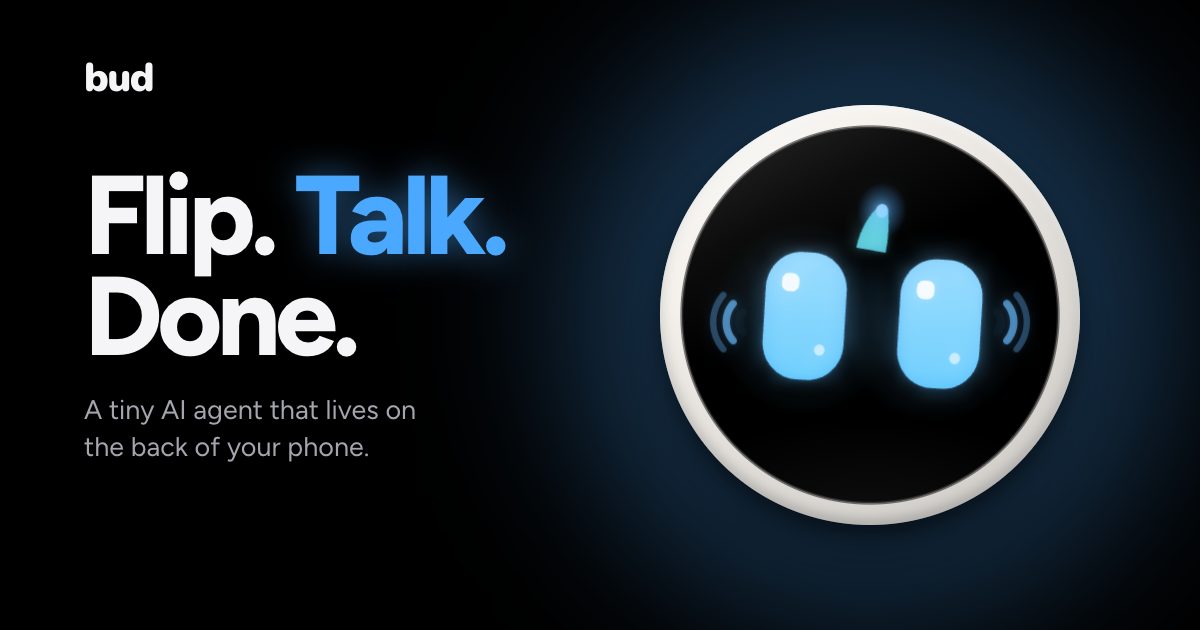
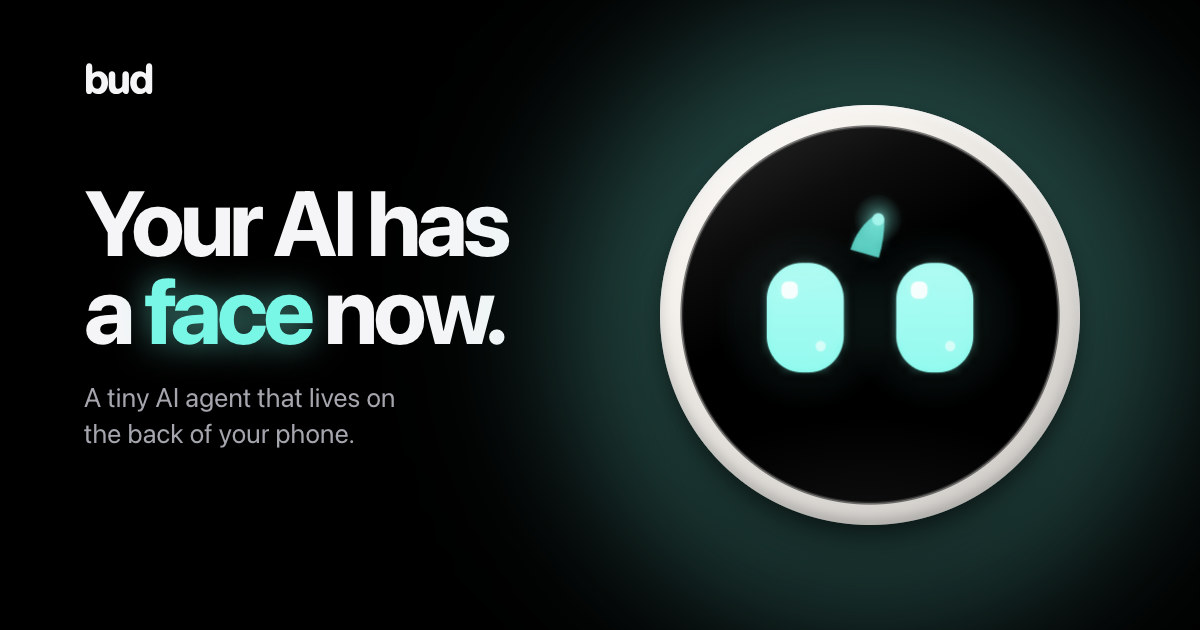
Publish meetbud.app (2026-11-02 07:41 UTC)

diff --git a/landing.js b/landing.js
@@ -4,19 +4,18 @@
  * the faces, colors and transitions here are the ones the device will show. This file
  * wires them to the page: the hero demo and cursor-following eyes, the scroll-driven 3D
  * reveal, the story, the try-on and share card, the film (or its animatic), reservations,
- * the email list and the A/B variant with dataLayer events.
+ * the email list, with dataLayer events.
  */
 (function () {
   'use strict';
   const K = window.Bud;
   const U = K.util;
   const CFG = Object.assign(
-    { name: 'Bud', depositAmount: '', price: '', shipWindow: '', variants: ['agent', 'companion'], analytics: true },
+    { name: 'Bud', depositAmount: '', price: '', shipWindow: '', analytics: true },
     window.BUD_CONFIG || {}
   );
   const $ = (s, r) => (r || document).querySelector(s);
   const $$ = (s, r) => Array.prototype.slice.call((r || document).querySelectorAll(s));
-  const root = document.documentElement;
   const IN_ARTIFACT = !!(window.claude && typeof window.claude.use === 'function');
   const mq = (q) => !!(window.matchMedia && window.matchMedia(q).matches);
   const REDUCED = mq('(prefers-reduced-motion: reduce)');
@@ -49,10 +48,12 @@
 
   /* ------------------------------------------------------------ analytics */
 
-  const variant = () => (CFG.variants.indexOf(root.dataset.variant) >= 0 ? root.dataset.variant : 'agent');
+  // The page's one version since the A/B test with "Flip. Talk. Done." ended (2026-11-02), still
+  // named in events, payment references and sign-ups so they line up with the test's.
+  const VARIANT = 'companion';
   function track(event, data) {
     if (!CFG.analytics) return;
-    (window.dataLayer = window.dataLayer || []).push(Object.assign({ event, variant: variant() }, data || {}));
+    (window.dataLayer = window.dataLayer || []).push(Object.assign({ event, variant: VARIANT }, data || {}));
   }
   document.addEventListener('click', (e) => {
     const t = e.target.closest && e.target.closest('[data-track]');
@@ -162,14 +163,7 @@
 
   function lightWords(st) {
     $$('.hw').forEach((w) => w.classList.remove('lit'));
-    if (variant() === 'agent') {
-      const word = { hello: 'flip', listening: 'talk', thinking: 'talk', done: 'done' }[st];
-      const el = word && $(`.hw[data-word="${word}"]`);
-      if (el) {
-        el.style.setProperty('--c', word === 'flip' ? TEAL : tintOf(st === 'thinking' ? 'listening' : st));
-        el.classList.add('lit');
-      }
-    } else if (st !== 'idle') {
+    if (st !== 'idle') {
       const el = $('.hw[data-word="face"]');
       el.style.setProperty('--c', tintOf(st));
       el.classList.add('lit');
@@ -661,7 +655,7 @@
     g.fillText(title, W / 2, 1040);
     g.fillStyle = '#A4A5AD';
     g.font = '500 40px Figtree, system-ui, sans-serif';
-    g.fillText(variant() === 'companion' ? 'My AI has a face now.' : 'My AI, on the back of my phone.', W / 2, 1108);
+    g.fillText('My AI has a face now.', W / 2, 1108);
     g.fillStyle = '#F5F5F7';
     g.font = '900 64px Nunito, "Arial Rounded MT Bold", system-ui, sans-serif';
     g.fillText('bud', W / 2, 1238);
@@ -1048,7 +1042,7 @@
         </div>
         <div class="film-end">
           <button class="btn btn-line btn-sm" type="button" data-film-again>Watch again</button>
-          <a class="btn btn-light btn-sm" href="#reserve" data-track="film_reserve"><span data-v="agent">Join the waitlist</span><span data-v="companion">Get yours first</span></a>
+          <a class="btn btn-light btn-sm" href="#reserve" data-track="film_reserve">Get yours first</a>
         </div>
         <div class="film-progress" aria-hidden="true"><i></i></div>`
       );
@@ -1183,7 +1177,7 @@
     try {
       const u = new URL(link);
       // ties the payment back to the landing variant (Stripe allows letters, digits, _ and -)
-      u.searchParams.set('client_reference_id', `lp_${variant()}_${refId}`);
+      u.searchParams.set('client_reference_id', `lp_${VARIANT}_${refId}`);
       const tags = utm();
       Object.keys(tags).forEach((k) => u.searchParams.set(k, tags[k]));
       return u.toString();
@@ -1240,7 +1234,7 @@
         const r = await fetch(CFG.waitlistEndpoint, {
           method: 'POST',
           headers: { 'Content-Type': 'application/json' },
-          body: JSON.stringify({ email, interest, variant: variant(), utm: utm(), ts: new Date().toISOString() }),
+          body: JSON.stringify({ email, interest, variant: VARIANT, utm: utm(), ts: new Date().toISOString() }),
         });
         if (!r.ok) throw new Error(String(r.status));
         say('You’re on the list. We will email you first.', 'ok');
@@ -1295,23 +1289,6 @@
     });
   }
 
-  function setupVariantSwitch() {
-    const sw = $('#vswitch');
-    if (!(IN_ARTIFACT || query().has('preview'))) return;
-    sw.hidden = false;
-    const paint = () => $$('[data-set-variant]', sw).forEach((b) => b.setAttribute('aria-pressed', String(b.dataset.setVariant === variant())));
-    $$('[data-set-variant]', sw).forEach((b) =>
-      b.addEventListener('click', () => {
-        root.dataset.variant = b.dataset.setVariant;
-        store.set('bud.variant', b.dataset.setVariant);
-        paint();
-        heroRun(false);
-        track('variant_preview');
-      })
-    );
-    paint();
-  }
-
   let ticking = false;
   function onScroll() {
     ticking = false;
@@ -1335,7 +1312,6 @@
 
   function boot() {
     applyConfig();
-    track('experiment_impression', { experiment: 'lp_positioning' });
     navBud = new K.Screen($('#navBud'), { fps: 30, bloom: false });
     navBud.set({ character: 'eyes', theme: 'classic', state: 'idle', oled: true, glow: false, shape: { type: 'circle' }, stage: {}, variety: !REDUCED });
     setupHero();
@@ -1347,7 +1323,6 @@
     setupDialog();
     setupFilm();
     setupReserve();
-    setupVariantSwitch();
     setupReveal();
     $$('.faq-list details').forEach((d) =>
       d.addEventListener('toggle', () => d.open && track('faq_open', { question: d.querySelector('summary').textContent }))

diff --git a/index.html b/index.html
@@ -1,5 +1,5 @@
 <!doctype html>
-<html lang="en" data-variant="agent">
+<html lang="en">
 <head>
 <meta charset="utf-8">
 <meta name="viewport" content="width=device-width, initial-scale=1, viewport-fit=cover">
@@ -7,7 +7,7 @@
 <meta name="description" content="Bud is a tiny AI agent that lives on the back of your phone. Flip your phone to wake it, say “Hey Bud”, and watch it get done. A working prototype today; join the waitlist.">
 <meta name="theme-color" content="#000000">
 <meta property="og:type" content="website">
-<meta property="og:title" content="Bud. Flip. Talk. Done.">
+<meta property="og:title" content="Bud. Your AI has a face now.">
 <meta property="og:description" content="A tiny AI agent that lives on the back of your phone.">
 <meta property="og:url" content="https://meetbud.app/">
 <meta property="og:image" content="https://meetbud.app/og.png">
@@ -19,18 +19,6 @@
 <link rel="preconnect" href="https://fonts.gstatic.com" crossorigin>
 <link rel="stylesheet" href="https://fonts.googleapis.com/css2?family=Figtree:wght@400..900&family=Nunito:wght@700..900&display=swap">
 <link rel="stylesheet" href="landing.css">
-<script>
-  // A/B variant before first paint: ?v= forces one, otherwise keep the visitor's or pick at random.
-  (function () {
-    var vs = ['agent', 'companion'];
-    var v = null;
-    try { v = new URLSearchParams(location.search).get('v'); } catch (e) {}
-    if (vs.indexOf(v) < 0) { try { v = JSON.parse(localStorage.getItem('bud.variant')); } catch (e) {} }
-    if (vs.indexOf(v) < 0) v = Math.random() < 0.5 ? 'agent' : 'companion';
-    try { localStorage.setItem('bud.variant', JSON.stringify(v)); } catch (e) {}
-    document.documentElement.setAttribute('data-variant', v);
-  })();
-</script>
 </head>
 <body>
 <a class="skip" href="#main">Skip to content</a>
@@ -53,10 +41,9 @@
   <!-- ============================================================ hero -->
   <section class="hero" id="top" aria-labelledby="hero-title">
     <div class="hero-head">
-      <p class="eyebrow"><span class="led"></span><span data-v="agent">An AI agent with a face</span><span data-v="companion">Meet Bud</span></p>
+      <p class="eyebrow"><span class="led"></span>Meet Bud</p>
       <h1 id="hero-title" class="hero-title">
-        <span data-v="agent" class="t-agent"><span class="hw" data-word="flip">Flip.</span> <span class="hw" data-word="talk">Talk.</span> <span class="hw" data-word="done">Done.</span></span>
-        <span data-v="companion" class="t-companion">Your AI has a <span class="hw" data-word="face">face</span> now.</span>
+        <span class="t-companion">Your AI has a <span class="hw" data-word="face">face</span> now.</span>
       </h1>
     </div>
     <div class="hero-stage">
@@ -68,10 +55,9 @@
       <p class="tap-hint" id="tapHint"><span class="ring" aria-hidden="true"></span>Tap Bud</p>
     </div>
     <div class="hero-body">
-      <p class="lede" data-v="agent">Bud is a tiny AI agent that lives on the back of your phone. Flip your phone to wake it, tap to talk, and watch it get done.</p>
-      <p class="lede" data-v="companion">Bud is a little AI friend that lives on the back of your phone. It listens, thinks, gets excited, and gets things done for you.</p>
+      <p class="lede">Bud is a little AI friend that lives on the back of your phone. It listens, thinks, gets excited, and gets things done for you.</p>
       <div class="cta-row">
-        <a class="btn btn-light btn-lg" href="#reserve" data-track="hero_reserve"><span data-v="agent">Join the waitlist</span><span data-v="companion">Get yours first</span></a>
+        <a class="btn btn-light btn-lg" href="#reserve" data-track="hero_reserve">Get yours first</a>
         <button class="btn btn-line btn-lg" type="button" data-film-open data-track="hero_film">
           <svg viewBox="0 0 24 24" aria-hidden="true"><path d="M8 5.5v13l10.5-6.5z" fill="currentColor"/></svg>Watch the film
         </button>
@@ -400,11 +386,6 @@
   </div>
 </dialog>
 
-<div class="vswitch" id="vswitch" hidden>
-  <span>A/B preview</span>
-  <button type="button" data-set-variant="agent">Agent</button>
-  <button type="button" data-set-variant="companion">Companion</button>
-</div>
 
 <script src="config.js"></script>
 <!-- shared character library from the concept explorer -->

diff --git a/landing.css b/landing.css
@@ -70,9 +70,6 @@ p { margin: 0; }
 .skip { position: fixed; left: 12px; top: -48px; z-index: 50; padding: 10px 14px; border-radius: 10px; background: var(--ink); color: var(--oled); font-weight: 600; transition: top 0.2s; }
 .skip:focus { top: calc(10px + env(safe-area-inset-top, 0px)); }
 
-/* A/B copy: both versions ship in the HTML, the variant decides which shows */
-[data-variant="agent"] [data-v="companion"],
-[data-variant="companion"] [data-v="agent"] { display: none !important; }
 
 /* ------------------------------------------------------------ type */
 .wordmark { font: 900 26px/1 var(--word); letter-spacing: -0.04em; }
@@ -630,17 +627,6 @@ section[id] { scroll-margin-top: var(--nav-h); }
 .card-actions { display: flex; flex-wrap: wrap; gap: 8px; justify-content: center; }
 .card-hint { text-align: center; font-size: 14px; color: var(--type-3); }
 
-/* ---------------------------------------------------- variant preview */
-.vswitch {
-  position: fixed; right: 16px; bottom: calc(16px + env(safe-area-inset-bottom, 0px)); z-index: 40; opacity: 0.72; transition: opacity 0.2s;
-  display: flex; align-items: center; gap: 4px; padding: 5px 5px 5px 14px; border-radius: 999px;
-  background: rgba(22, 23, 27, 0.86); border: 1px solid var(--line-dark); -webkit-backdrop-filter: blur(16px); backdrop-filter: blur(16px);
-  font: 600 11px/1 var(--label); letter-spacing: 0.12em; text-transform: uppercase; color: var(--ink-3);
-}
-.vswitch span { margin-right: 8px; }
-.vswitch button { height: 30px; padding: 0 12px; border: 0; border-radius: 999px; background: transparent; color: var(--ink-2); cursor: pointer; font: 600 12px/1 var(--text); letter-spacing: 0; text-transform: none; }
-.vswitch button[aria-pressed="true"] { background: var(--ink); color: var(--oled); }
-
 /* ------------------------------------------------------------ reveal */
 .rv { transition: opacity 0.9s ease, transform 0.9s var(--ease); }
 .rv.pre { opacity: 0; transform: translateY(26px); }
@@ -650,7 +636,6 @@ section[id] { scroll-margin-top: var(--nav-h); }
   .rv.pre { opacity: 1; transform: none; }
 }
 
-.vswitch:hover, .vswitch:focus-within { opacity: 1; }
 @media (max-width: 860px) {
   .hero { padding-block: 24px 96px; }
 }

diff --git a/config.js b/config.js
@@ -30,10 +30,6 @@ window.BUD_CONFIG = {
   siteUrl: 'meetbud.app',
   contactEmail: 'hello@meetbud.app',
 
-  // A/B test: 'agent' (gets things done) vs 'companion' (a little friend).
-  // ?v=agent or ?v=companion forces one; otherwise each visitor gets one at random and keeps it.
-  variants: ['agent', 'companion'],
-
   // Push events to window.dataLayer (Google Tag Manager and most analytics tools read it).
   analytics: true,
 };
